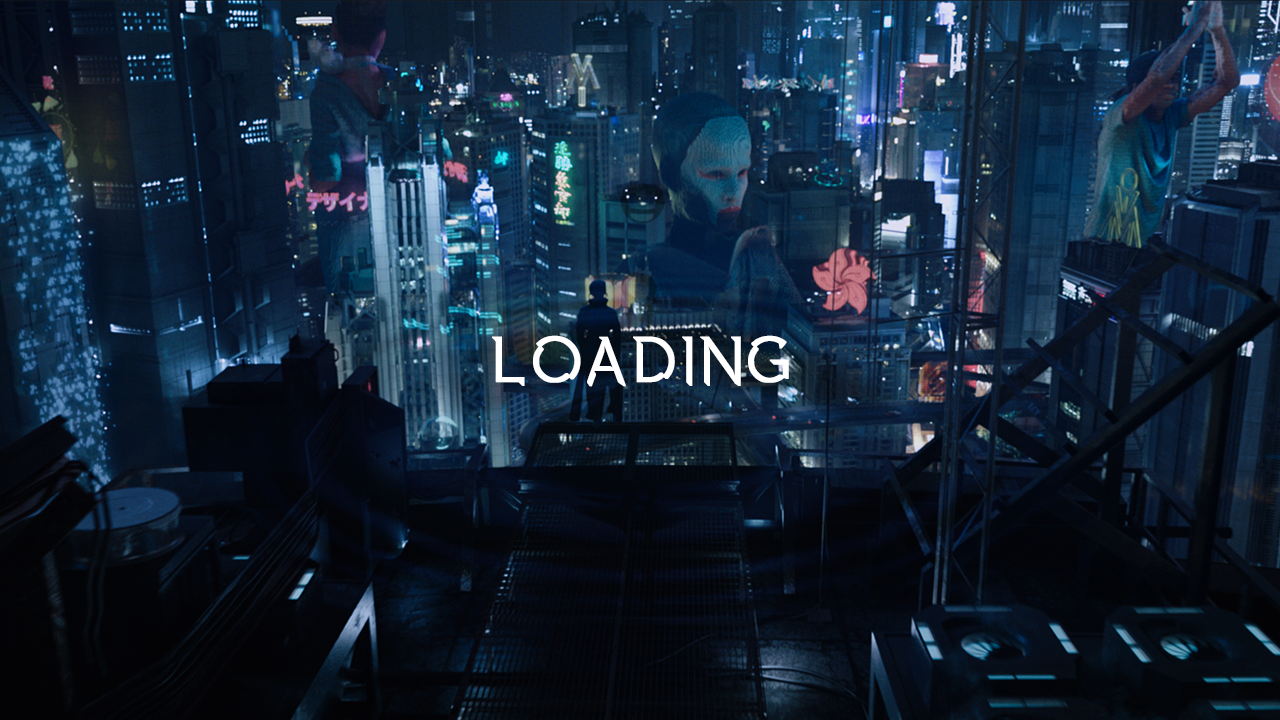
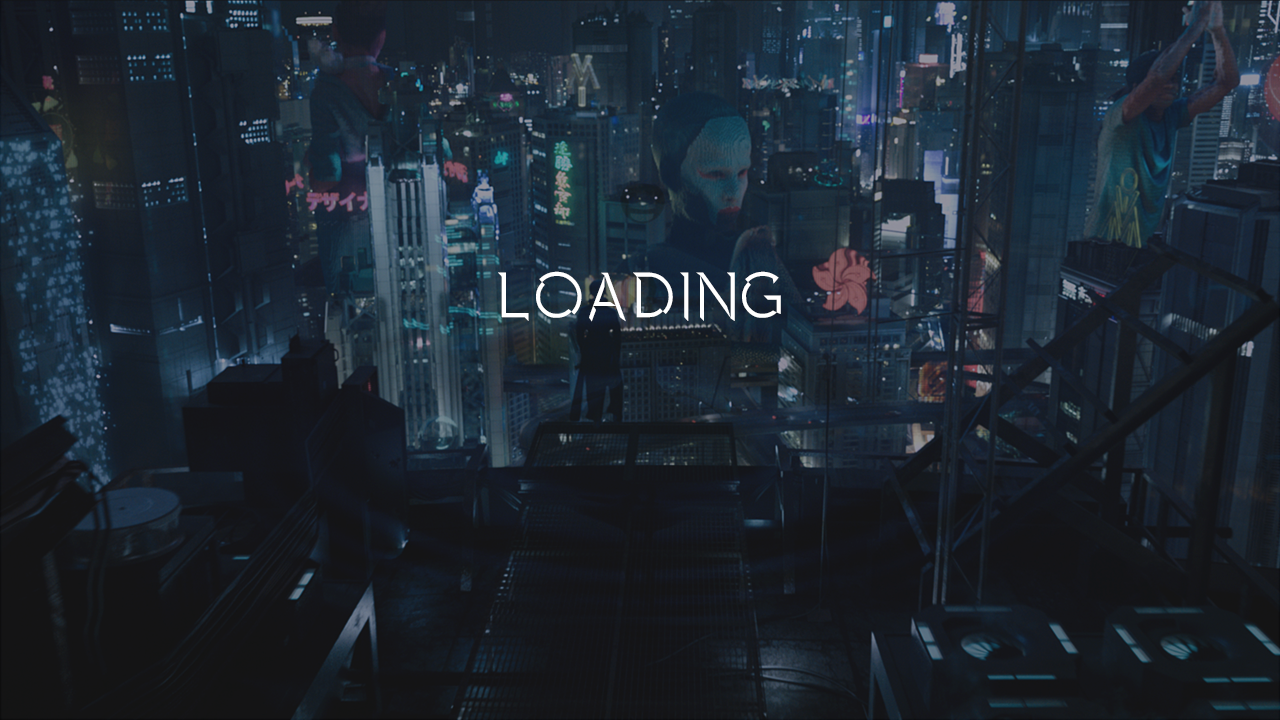
map tweaks + picture tweaks + stealth

diff --git a/AssassinValkyrie/assassinValkyrie.cpp b/AssassinValkyrie/assassinValkyrie.cpp
@@ -58,10 +58,10 @@ void AssassinValkyrie::initialize(Game &gamePtr, HWND *hwndM, HRESULT *hrM, LARG
 	//				BG
 	/////////////////////////////////////////
 	//Background
-	if (!backgroundTexture.initialize(graphics, BACKGROUND_IMAGE))
-		throw(GameError(gameErrorNS::FATAL_ERROR, "Error initializing background texture"));
+	if (!tutorialTexture.initialize(graphics, TUTORIAL_IMAGE))
+		throw(GameError(gameErrorNS::FATAL_ERROR, "Error initializing tutorialTexture"));
 
-	if (!background->initialize(this, backgroundNS::WIDTH, backgroundNS::HEIGHT, backgroundNS::TEXTURE_COLS, &backgroundTexture))
+	if (!background->initialize(this, backgroundNS::WIDTH, backgroundNS::HEIGHT, backgroundNS::TEXTURE_COLS, &tutorialTexture))
 		throw(GameError(gameErrorNS::FATAL_ERROR, "Error initializing background"));
 
 	if (!loadingTexture.initialize(graphics, LOADING_IMAGE))
@@ -145,13 +145,9 @@ void AssassinValkyrie::re_initialize()
 	background = new Background();
 	stageGenerator = new StageGenerator();
 	displayTimer = new TextDX();
-
 	emList = new EnemyManager();
 	emBulletList = *new EnemyBulletManager();
 
-	mins = 0;
-	secs = 0;
-	milliSec = 0;
 	text = new TextDX();
 
 	// Mouse
@@ -162,12 +158,21 @@ void AssassinValkyrie::re_initialize()
 		throw(GameError(gameErrorNS::FATAL_ERROR, "Error initializing enemy trooper"));
 
 	//Background
-	if (!backgroundTexture.initialize(graphics, BACKGROUND_IMAGE))
-		throw(GameError(gameErrorNS::FATAL_ERROR, "Error initializing background texture"));
+	if (currentStage <= 0)
+	{
+		if (!tutorialTexture.initialize(graphics, TUTORIAL_IMAGE))
+			throw(GameError(gameErrorNS::FATAL_ERROR, "Error initializing tutorialTexture"));
 
-	if (!background->initialize(this, backgroundNS::WIDTH, backgroundNS::HEIGHT, backgroundNS::TEXTURE_COLS, &backgroundTexture))
-		throw(GameError(gameErrorNS::FATAL_ERROR, "Error initializing background"));
-
+		if (!background->initialize(this, backgroundNS::WIDTH, backgroundNS::HEIGHT, backgroundNS::TEXTURE_COLS, &tutorialTexture))
+			throw(GameError(gameErrorNS::FATAL_ERROR, "Error initializing background"));
+	}
+	else
+	{
+		if (!backgroundTexture.initialize(graphics, BACKGROUND_IMAGE))
+			throw(GameError(gameErrorNS::FATAL_ERROR, "Error initializing background texture"));
+		if (!background->initialize(this, backgroundNS::WIDTH, backgroundNS::HEIGHT, backgroundNS::TEXTURE_COLS, &backgroundTexture))
+			throw(GameError(gameErrorNS::FATAL_ERROR, "Error initializing background"));
+	}
 	if (!floorTexture.initialize(graphics, FLOOR_IMAGE))
 		throw(GameError(gameErrorNS::FATAL_ERROR, "Error initalizing floor texture"));
 
@@ -253,8 +258,6 @@ void AssassinValkyrie::update()
 	auto t = player->outOfBounds();
 	if (t && player->getCenterX() > GAME_WIDTH)
 	{
-		totalTime += ((mins * 60) + secs);
-
 		if (currentStage != FINAL_STAGE)
 		{
 			currentStage++;
@@ -281,7 +284,7 @@ void AssassinValkyrie::update()
 // Artificial Intelligence
 void AssassinValkyrie::ai()
 {
-	emList->ai(player, visionPlatforms, input);
+	emList->ai(player, visionPlatforms, input, player->getStealthLevel());
 }
 
 // Handle collisions
@@ -321,7 +324,7 @@ void AssassinValkyrie::render()
 	displayTimer->setFontColor(graphicsNS::WHITE);
 	displayTimer->print(buffer, (GAME_WIDTH / 2) - 30, 0);
 
-	if (player->getCenterX() > GAME_WIDTH)
+	if ((player->getCenterX() - playerNS::WIDTH / 2) > GAME_WIDTH)
 		loading.draw();
 
 	dashboard->draw();

diff --git a/AssassinValkyrie/Player.cpp b/AssassinValkyrie/Player.cpp
@@ -40,7 +40,7 @@ Player::Player() : Entity()
 
 bool Player::initialize(Game *gamePtr, int width, int height, int ncols, TextureManager *textureM)
 {
-
+	damaged = false;
 	return(Entity::initialize(gamePtr, width, height, ncols, textureM));
 }
 int Player::getNextLevelXP() {
@@ -67,26 +67,6 @@ void Player::update(float frameTime, Game *gamePtr, TextureManager *textureM, St
 
 	if (collideWall)
 		setVelocity({ 0 ,getVelocityY() });
-
-	/*	for (FILLS::iterator fill = (fillCollection->begin()); fill != fillCollection->end(); fill++)
-	{
-		if (player->collidesWith(**fill, collisionVector))
-		{
-			if (!player->isFlipHorizontal())
-			{
-				player->setX((*fill)->getX() - 80);
-			}
-
-			else
-			{
-				player->setX((*fill)->getX() + 80);
-			}
-			moveOn = false;
-			break;
-		}
-		else
-			moveOn = true;
-	}*/
 }
 
 void Player::handleInput(Input* input, Game *gamePtr, TextureManager *textureM, StageGenerator *stagegenerator, EnemyManager *enemyList, PLATFORM p, Audio *a)
@@ -118,7 +98,6 @@ void Player::collisions(EnemyManager *enemyList, StageGenerator *stageGen, Audio
 		}
 		else
 			collideWall = false;
-
 
 	GUNNERLIST *gunnerCollection = enemyList->getGunners();
 	TROOPERLIST *trooperCollection = enemyList->getTroopers();
@@ -173,7 +152,9 @@ void Player::collisions(EnemyManager *enemyList, StageGenerator *stageGen, Audio
 		if (!(*trooper)->outOfBounds())
 			if ((*trooper)->getAttack()->getAnimation() && collidesWith(**trooper, collisionVector) && (*trooper)->getAttack()->getAttack() && (*trooper)->getVisible() && visible)
 			{
-				a->playCue(SWORD);
+ 				a->playCue(SWORD);
+				damaged = true;
+				damageTimer = GetTickCount();
 				health = health - round((5 * calcNegativeMultipler(armorLevel - 1)));
 				(*trooper)->getAttack()->offAttack();
 			}
@@ -271,5 +252,12 @@ void Player::ai(Entity &ship1, Entity &ship2)
 
 void Player::draw()
 {
-	Image::draw();              // draw ship
+	if (damaged)
+	{
+		Image::draw(graphicsNS::ORANGE);
+		if (GetTickCount() - damageTimer > 800)
+			damaged = false;
+	}
+	else
+		Image::draw();              // draw ship
 }

diff --git a/AssassinValkyrie/mainMenu.cpp b/AssassinValkyrie/mainMenu.cpp
@@ -245,7 +245,7 @@ void MainMenu::initialize(HWND hwnd)
 		throw(GameError(gameErrorNS::FATAL_ERROR, "Error initializing text"));
 
 	// Game Over Text
-	if (!gameOverText->initialize(graphics, 50, false, false, "Spectre 007"))
+	if (!gameOverText->initialize(graphics, 100, false, false, "Spectre 007"))
 		throw(GameError(gameErrorNS::FATAL_ERROR, "Error initializing text"));
 
 	audio->playCue(RUSH);
@@ -529,7 +529,7 @@ void MainMenu::render()
 
 	if (gameStart && assValk->getPause())
 	{
-		mmBackground.draw();
+		background.draw();
 		resumeButton.draw();
 		pExitButton.draw();
 
@@ -690,15 +690,15 @@ void MainMenu::render()
 		// Victory
 		if (assValk->getOverType() == 1)
 		{
-			_snprintf(buffer, bufferSize, "Congratulations!");
+			_snprintf(buffer, bufferSize, "Congratulations");
 			gameOverText->setFontColor(graphicsNS::WHITE);
-			gameOverText->print(buffer, (GAME_WIDTH / 2) - 50, GAME_HEIGHT / 4);
+			gameOverText->print(buffer, (GAME_WIDTH / 5)+30, GAME_HEIGHT / 3 + 30);
 		}
 		if (assValk->getOverType() == 2)
 		{
-			_snprintf(buffer, bufferSize, "You Lost!");
+			_snprintf(buffer, bufferSize, "YOU DIED");
 			gameOverText->setFontColor(graphicsNS::WHITE);
-			gameOverText->print(buffer, (GAME_WIDTH / 2) - 50, GAME_HEIGHT / 4);
+			gameOverText->print(buffer, (GAME_WIDTH / 3) + 30, GAME_HEIGHT / 3 + 30);
 		}
 	}
 

diff --git a/AssassinValkyrie/constants.h b/AssassinValkyrie/constants.h
@@ -44,7 +44,7 @@ const float MAX_FRAME_TIME = 1.0f/MIN_FRAME_RATE; // maximum time used in calcul
 const float GRAVITY = 9.81f;
 
 const int	INIT_STAGE = 0;
-const int	FINAL_STAGE = 3;
+const int	FINAL_STAGE = 0;
 
 // graphic images
 const char MMBACKGROUND_IMAGE[] = "pictures\\mainMenuBackground.png";
@@ -63,6 +63,7 @@ const char MBACKGROUND_IMAGE[] = "pictures\\background.png";
 const char PLAYER_IMAGE[] = "pictures\\Player.png";
 const char FLOOR_IMAGE[] = "pictures\\newElements.png";
 const char BACKGROUND_IMAGE[] = "pictures\\backgroundBIG.png";
+const char TUTORIAL_IMAGE[] = "pictures\\tutorial.png";
 const char PICKUP_IMAGE[] = "pictures\\pickupTextures.png";
 
 const char ENEMY_TROOPER_IMAGE[] = "pictures\\enemyTexture.png";

diff --git a/AssassinValkyrie/enemyBulletManager.cpp b/AssassinValkyrie/enemyBulletManager.cpp
@@ -139,6 +139,8 @@ void EnemyBulletManager::collisions(Player *play, PLATFORM p)
 				{
 					(*bullet)->setActive(false);
 					play->setHealth(play->getHealth() - round((4 * play->calcNegativeMultipler(play->getArmorLevel() -1))));
+					play->damaged = true;
+					play->damageTimer = GetTickCount();
 				}
 				else
 					for (Entity *t : inRangeP)
@@ -158,6 +160,8 @@ void EnemyBulletManager::collisions(Player *play, PLATFORM p)
 				{
 					(*fireball)->setActive(false);
 					play->setHealth(play->getHealth() - round((6* play->calcNegativeMultipler(play->getArmorLevel() -1))));
+					play->damaged = true;
+					play->damageTimer = GetTickCount();
 				}
 				else
 					for (Entity *t : inRangeP)

diff --git a/AssassinValkyrie/helpText.h b/AssassinValkyrie/helpText.h
@@ -11,11 +11,11 @@
 
 namespace HelpTextNS
 {
-	const auto MOVE = "Use 'A' & 'D' to move";
+	const auto MOVE = "Use 'A' & 'D' to move\nAnd 'SPACE' to jump";
 	const auto LADDER = "Hold 'W' to climb\nup ladder";
-	const auto HIDE_ASS = "Press 'W' to use hideout to avoid contact\n\nUse 'R' to assassin an enemy";
+	const auto HIDE_ASS = "Press 'W' to use hideout to avoid contact\n\n'G' for melee\n\n'F' for arrowshots";
 	const auto TOSS = "Press 'H' to toss a distraction\nto avoid direct contact";
-	const auto ATTACK = "'G' for melee\n\n'F' for arrowshots";
+	const auto ATTACK = "Use 'R' to assassin an enemy";
 }
 namespace HelpTextNS2
 {

diff --git a/AssassinValkyrie/enemyManager.cpp b/AssassinValkyrie/enemyManager.cpp
@@ -95,14 +95,14 @@ void EnemyManager::update(float frameTime, PLATFORM p, Audio *a)
 	}
 }
 
-void EnemyManager::ai(Entity *player, PLATFORM p, Input *i)
+void EnemyManager::ai(Entity *player, PLATFORM p, Input *i, float viewM)
 {
 	std::vector<VECTOR2*> posAlertList;
 	std::vector<Enemy*> posNotList;
 	for (Enemy *t : worldCollection)
 		if (!t->outOfBounds())
 		{
-			t->ai(p, i);
+			t->ai(p, i, viewM);
 			if (AlertedState *a = dynamic_cast<AlertedState*>(t->getState()))
 				posAlertList.emplace_back(&VECTOR2{ t->getCenterX(), t->getCenterY() });
 			else

diff --git a/AssassinValkyrie/enemyManager.h b/AssassinValkyrie/enemyManager.h
@@ -44,7 +44,7 @@ public:
 
 	bool initialize(Game *gamePtr, TextureManager *textureTrooper, TextureManager *textureGunner, TextureManager *textureSerpant, TextureManager *textureHealth, Entity *play);
 	void update(float frameTime, PLATFORM p, Audio *a);
-	void ai(Entity *player, PLATFORM p, Input *i);
+	void ai(Entity *player, PLATFORM p, Input *i, float viewM);
 	void collisions(Entity *play, PLATFORM floor, PLATFORM fill, Audio *a);
 	void render();
 	void renderRay(Graphics *g);

diff --git a/AssassinValkyrie/rayCasting.h b/AssassinValkyrie/rayCasting.h
@@ -24,6 +24,7 @@ private:
 	float visibilityAngle;
 	int viewDistance;
 	int viewHeight;		// from center
+	float viewM;
 	int rayMultiplier;
 	double distMultipler;
 	VECTOR2 pos;
@@ -58,7 +59,13 @@ public:
 	}
 	void setColor(COLOR_ARGB c) { color = c; }
 
-	//void setRayMultiplier(int i) { rayMultiplier = i; }
-	//int getRayMultipler() { return rayMultiplier; }
+	void setViewMultiplier(float i)
+	{
+		if (viewM != i)
+		{
+			viewDistance *= i;
+			viewM = i;
+		}
+	}
 };
 #endif

diff --git a/AssassinValkyrie/Player.h b/AssassinValkyrie/Player.h
@@ -60,6 +60,7 @@ protected:
 	int skillPointAvailable;
 	int maxHealth;
 	bool stealthSet = false;
+
 public:
 	// constructor
 	Player();
@@ -168,10 +169,10 @@ public:
 	int getMaxHealth() { return maxHealth; }
 	int getNextLevelXP();
 
-	bool getStealthSet() { return stealthSet; }
-	void setStealthSet(bool i) { stealthSet = i; }
-
 	bool getCollideWall() { return collideWall; }
 	PlayerState* getState() { return state_; }
+	
+	bool damaged;
+	int damageTimer;
 };
 #endif

diff --git a/AssassinValkyrie/dashboard.cpp b/AssassinValkyrie/dashboard.cpp
@@ -18,7 +18,6 @@ Dashboard::Dashboard()
 
 	mins = 0;
 	secs = 0;
-	
 }
 
 Dashboard::~Dashboard()
@@ -274,7 +273,6 @@ void Dashboard::update(float frameTime,Player *playerM, Input *input)
 	if (stealthIcon.collidesWith(*mouse, collisionVector) && playerM->getSkillPoints() >= 1 && input->getMouseLButton())
 	{
 		playerM->setStealthLevel();
-		playerM->setStealthSet(true);
 		playerM->useSkillPoints();
 		stealthIcon.setCurrentFrame(buttonNS::STEALTH_FRAME);
 	}

diff --git a/AssassinValkyrie/enemy.cpp b/AssassinValkyrie/enemy.cpp
@@ -65,9 +65,17 @@ void Enemy::update(float frameTime, PLATFORM p, Audio *a)
 	Entity::update(frameTime);
 }
 
-void Enemy::ai(PLATFORM p, Input *i)
+void Enemy::ai(PLATFORM p, Input *i, float viewM)
 {
 	handleInput(NULL, i, &p);
+	float factor = 1;
+	if (viewM > 1)
+	{
+		viewM = viewM - 0.5;
+		factor = 10 - viewM;
+		factor /= 10;
+	}
+	vision->setViewMultiplier(factor);
 }
 
 void Enemy::draw()
